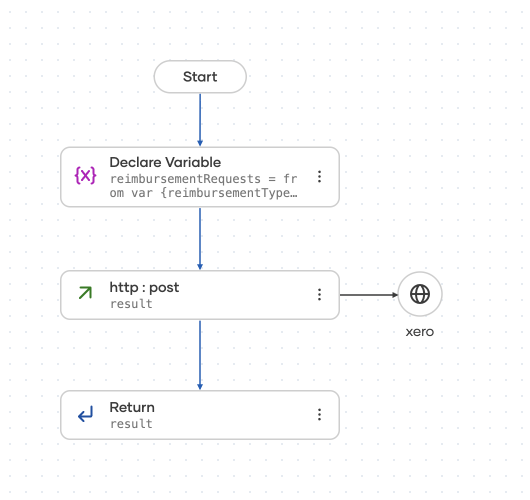
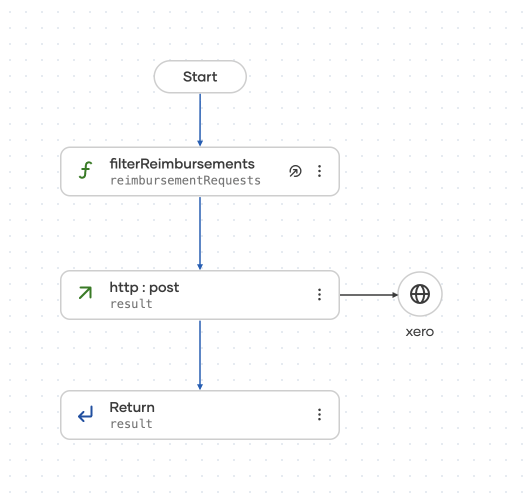
Improve/proof read the content

Changed region(s): [[0.1208, 0.3, 0.634, 0.42], [0.1208, 0.33, 0.1811, 0.36], [0.5434, 0.33, 0.5736, 0.36]]

diff --git a/en/docs/guides/patterns/message-translator.md b/en/docs/guides/patterns/message-translator.md
@@ -25,16 +25,20 @@ This example accepts sales opportunity data from a CRM-style analytics endpoint 
 
 1. Create an [HTTP service](../../develop/integration-artifacts/service/http.md#creating-an-http-service) with a `post` resource that accepts the `SalesData` payload.
 2. Add an HTTP client connection for the QuickBooks API. See [adding a connection](../../develop/integration-artifacts/supporting/connections.md#adding-a-connection).
-3. Add a data mapper that maps `SalesData` to `QuickBooksInvoice`, converting each opportunity into an invoice entry.
+3. [Add a data mapper](../../develop/integration-artifacts/supporting/data-mapper/access-paths/reusable.md) that maps `SalesData` to `QuickBooksInvoice`, converting each opportunity into an invoice entry.
 4. Call the QuickBooks connection with the translated message.
 
 The flow calls the `translate` function to convert the sales data into the QuickBooks invoice format, then posts it:
 
 <PatternImage src="/img/eip-patterns/message_translator_flow.png" alt="Message Translator flow in the WSO2 Integrator visual designer" width={530} />
 
-The [type diagram](../../develop/understand-ide/editors/type-diagram-editor.md) makes the translation concrete — the source `SalesData` tree (with its `Customer` and `Opportunity` records) on the left, and the target `QuickBooksInvoice` tree on the right:
+The [Data Mapper](../../develop/integration-artifacts/supporting/data-mapper/data-mapper.md) gives this conversion a visual view, which comes in handy for message translations: the `SalesData` fields on the left link to the `QuickBooksInvoice` fields on the right, and an [array mapping](../../develop/integration-artifacts/supporting/data-mapper/array-mappings/array-mappings.md) turns each `Opportunity` into an `Invoice`:
 
-<PatternImage src="/img/eip-patterns/message_translator_types.png" alt="Message Translator type diagram in WSO2 Integrator" width={642} />
+<PatternImage src="/img/eip-patterns/message_translator_datamapper.png" alt="Message Translator data mapper in WSO2 Integrator" width={1006} />
+
+Once the arrays are linked, open the focused view on the array mapping to map the individual element fields — each `Opportunity`'s `id`, `amount`, and `closeDate` map to the `Invoice` item's `id`, `amount`, and `invoiceDate`:
+
+<PatternImage src="/img/eip-patterns/message_translator_datamapper_item.png" alt="Message Translator data mapper focused view mapping each array element field" width={1006} />
 
 </TabItem>
 <TabItem value="code" label="Ballerina Code">
@@ -74,17 +78,15 @@ type Invoice record {|
 final http:Client quickBooks = check new ("http://api.quickbooks.com.balmock.io");
 // docs-fold-end
 
-function translate(SalesData salesData) returns QuickBooksInvoice {
-    return {
-        customerId: salesData.customer.id,
-        invoices: from var oppotunity in salesData.opportunities
-            select {
-                id: oppotunity.id,
-                amount: oppotunity.amount,
-                invoiceDate: oppotunity.closeDate
-            }
-    };
-}
+function translate(SalesData salesData) returns QuickBooksInvoice => {
+    customerId: salesData.customer.id,
+    invoices: from var oppotunity in salesData.opportunities
+        select {
+            id: oppotunity.id,
+            amount: oppotunity.amount,
+            invoiceDate: oppotunity.closeDate
+        }
+};
 
 listener http:Listener httpListener = new (port = 8080);
 
@@ -98,10 +100,6 @@ service /api/v1/analytics on httpListener {
 
 </TabItem>
 </PatternImplementationTabs>
-
-:::tip Build it visually with the Data Mapper
-The `translate` function here is hand-written, but the same conversion can be built on a canvas with the visual [Data Mapper](../../develop/integration-artifacts/supporting/data-mapper/data-mapper.md): link the `SalesData` fields to `QuickBooksInvoice` fields, and use an [array mapping](../../develop/integration-artifacts/supporting/data-mapper/array-mappings/array-mappings.md) to turn each `Opportunity` into an `Invoice` — no conversion code required.
-:::
 
 ## Complete sample
 

diff --git a/en/docs/guides/patterns/content-filter.md b/en/docs/guides/patterns/content-filter.md
@@ -25,16 +25,16 @@ This example receives detailed reimbursement templates that include descriptive 
 
 1. Create an [HTTP service](../../develop/integration-artifacts/service/http.md#creating-an-http-service) with a `post` resource that accepts the `DetailedReimbursementTemplate[]` payload.
 2. Add an HTTP client connection for the Xero API. See [adding a connection](../../develop/integration-artifacts/supporting/connections.md#adding-a-connection).
-3. In the flow, add a query over the incoming templates with a `select` clause that keeps only `reimbursementTypeID` and `fixedAmount` — this is the content filter.
+3. Add a data mapper (`filterReimbursements`) that maps `DetailedReimbursementTemplate` to `ReimbursementTemplate`, keeping only `reimbursementTypeID` and `fixedAmount` — this is the content filter.
 4. Post the filtered list to the Xero pay template endpoint and return the result.
 
 The flow projects each reimbursement template down to the two fields the payroll API needs, then posts the reduced message:
 
 <PatternImage src="/img/eip-patterns/content_filter_flow.png" alt="Content Filter flow in the WSO2 Integrator visual designer" width={530} />
 
-The [type diagram](../../develop/understand-ide/editors/type-diagram-editor.md) shows what the filter removes: the incoming `DetailedReimbursementTemplate` carries three fields, while the `ReimbursementTemplate` sent onward keeps only `reimbursementTypeID` and `fixedAmount` — `reimbursementTypeName` is dropped:
+Because `filterReimbursements` is a datamapper function, WSO2 Integrator opens it in the visual [Data Mapper](../../develop/integration-artifacts/supporting/data-mapper/data-mapper.md). The input `DetailedReimbursementTemplate` carries three fields, but the output keeps only `reimbursementTypeID` and `fixedAmount` — `reimbursementTypeName` has no link, so it is dropped:
 
-<PatternImage src="/img/eip-patterns/content_filter_types.png" alt="Content Filter type diagram in WSO2 Integrator" width={619} />
+<PatternImage src="/img/eip-patterns/content_filter_datamapper.png" alt="Content Filter data mapper in WSO2 Integrator" width={1006} />
 
 </TabItem>
 <TabItem value="code" label="Ballerina Code">
@@ -65,14 +65,20 @@ type Reimbursement record {
 final http:Client xero = check new ("http://api.xero.com.balmock.io");
 // docs-fold-end
 
+function filterReimbursements(DetailedReimbursementTemplate[] templates) returns ReimbursementTemplate[] =>
+    from var templatesItem in templates
+    select {
+        reimbursementTypeID: templatesItem.reimbursementTypeID, 
+        fixedAmount: templatesItem.fixedAmount
+    };
+
 listener http:Listener httpListener = new (port = 8080);
 
 service /payroll on httpListener {
 
     resource function post employees/[string id]/paytemplate/reimbursements(DetailedReimbursementTemplate[] templates)
             returns Reimbursement|error {
-        ReimbursementTemplate[] reimbursementRequests = from var {reimbursementTypeID, fixedAmount} in templates
-            select {reimbursementTypeID, fixedAmount};
+        ReimbursementTemplate[] reimbursementRequests = filterReimbursements(templates);
         Reimbursement result = check xero->/payrollxro/employees/[id]/paytemplate/reimbursements.post(reimbursementRequests);
         return result;
     }
@@ -81,10 +87,6 @@ service /payroll on httpListener {
 
 </TabItem>
 </PatternImplementationTabs>
-
-:::tip Build it visually with the Data Mapper
-The `select` projection in step 3 is exactly what the [Data Mapper](../../develop/integration-artifacts/supporting/data-mapper/data-mapper.md) does visually: map `DetailedReimbursementTemplate` to `ReimbursementTemplate` and leave `reimbursementTypeName` unlinked — any field you do not connect is dropped from the output. Since the payload is a list, this is an [array mapping](../../develop/integration-artifacts/supporting/data-mapper/array-mappings/array-mappings.md).
-:::
 
 ## Complete sample
 

diff --git a/en/docs/guides/patterns/format-indicator.md b/en/docs/guides/patterns/format-indicator.md
@@ -37,6 +37,10 @@ The [type diagram](../../develop/understand-ide/editors/type-diagram-editor.md) 
 
 <PatternImage src="/img/eip-patterns/format_indicator_types.png" alt="Format Indicator type diagram in WSO2 Integrator" width={760} />
 
+The version-1 conversion is written as the datamapper function `toPatient`, so WSO2 Integrator opens it in the visual [Data Mapper](../../develop/integration-artifacts/supporting/data-mapper/data-mapper.md): `dob` and `diagnosis` map straight across, while `firstName` and `lastName` combine into `fullName` — a [many-to-one mapping](../../develop/integration-artifacts/supporting/data-mapper/mapping-capabilities.md#many-to-one-mapping):
+
+<PatternImage src="/img/eip-patterns/format_indicator_datamapper.png" alt="Format Indicator data mapper in WSO2 Integrator" width={1006} />
+
 </TabItem>
 <TabItem value="code" label="Ballerina Code">
 
@@ -68,17 +72,19 @@ type Patient record {|
 final http:Client patientClient = check new ("http://api.patients.com.balmock.io");
 // docs-fold-end
 
+function toPatient(PatientReqV1 req) returns Patient => {
+    dob: req.dob,
+    fullName: req.firstName + " " + req.lastName,
+    diagnosis: req.diagnosis
+};
+
 listener http:Listener httpListener = new (port = 8080);
 
 service /api/v1 on httpListener {
     resource function post data/patient(PatientReq patintReq) returns error? {
         Patient patient;
         if patintReq is PatientReqV1 {
-            patient = {
-                dob: patintReq.dob,
-                fullName: patintReq.firstName + " " + patintReq.lastName,
-                diagnosis: patintReq.diagnosis
-            };
+            patient = toPatient(patintReq);
         } else {
             patient = {
                 dob: patintReq.patient.dob,
@@ -97,10 +103,6 @@ service /api/v1 on httpListener {
 
 </TabItem>
 </PatternImplementationTabs>
-
-:::tip Build the conversion visually with the Data Mapper
-Mapping each version into `Patient` (step 4) can be done in the [Data Mapper](../../develop/integration-artifacts/supporting/data-mapper/data-mapper.md) instead of code: link `dob` and `diagnosis` straight across, and combine `firstName` and `lastName` into `fullName` with a [many-to-one mapping](../../develop/integration-artifacts/supporting/data-mapper/mapping-capabilities.md#many-to-one-mapping).
-:::
 
 ## Complete sample
 

diff --git a/en/docs/guides/patterns/message.md b/en/docs/guides/patterns/message.md
@@ -23,12 +23,17 @@ This example builds a message that carries the details of a customer satisfactio
 <PatternImplementationTabs>
 <TabItem value="ui" label="Visual Designer" default>
 
-1. Create an [automation](../../develop/integration-artifacts/automation.md#creating-an-automation) to run the flow.
-2. Add an HTTP client connection that points to the SurveyMonkey API. See [adding a connection](../../develop/integration-artifacts/supporting/connections.md#adding-a-connection).
-3. In the flow, declare a variable of type `SurveyUpdateRequest` and assign the survey details. This record is the message.
-4. Add the HTTP `put` action on the connection to transmit the message to the survey resource path.
+1. Define the message structure as a record type with the [Type editor](../../develop/understand-ide/editors/type-editor.md). Here, `SurveyUpdateRequest` names the fields the two applications agree on, with a type for each.
+2. Create an [automation](../../develop/integration-artifacts/automation.md#creating-an-automation) to run the flow.
+3. Add an HTTP client connection that points to the SurveyMonkey API. See [adding a connection](../../develop/integration-artifacts/supporting/connections.md#adding-a-connection).
+4. In the flow, declare a variable of type `SurveyUpdateRequest` and assign the survey details. This record instance is the message.
+5. Add the HTTP `put` action on the connection to transmit the message to the survey resource path.
 
-The flow sends the `SurveyUpdateRequest` message to the SurveyMonkey channel as a single PUT request:
+Defining the message is the heart of this pattern. The `SurveyUpdateRequest` record fixes the shape both applications rely on — `title`, `from_template_id`, `footer`, `folder_id`, and `theme_id` — each with its type:
+
+<PatternImage src="/img/eip-patterns/message_types.png" alt="SurveyUpdateRequest message type in the WSO2 Integrator type diagram" width={355} />
+
+With the message type defined, the flow assigns its values and sends it to the SurveyMonkey channel as a single PUT request:
 
 <PatternImage src="/img/eip-patterns/message_flow.png" alt="Message flow in the WSO2 Integrator visual designer" width={530} />
 

diff --git a/en/docs/guides/patterns/point-to-point-channel.md b/en/docs/guides/patterns/point-to-point-channel.md
@@ -23,6 +23,10 @@ This example sends a product creation message to the Zuora billing API over a de
 <PatternImplementationTabs>
 <TabItem value="ui" label="Visual Designer" default>
 
+The design view shows the channel: a single automation connected to one Zuora connection, so the message has exactly one sender and one receiver:
+
+<PatternImage src="/img/eip-patterns/point_to_point_channel_design.png" alt="Point-to-Point Channel integration design view in WSO2 Integrator" width={646} />
+
 1. Create an [automation](../../develop/integration-artifacts/automation.md#creating-an-automation) to run the flow.
 2. Add an HTTP client connection that points to the Zuora API — this connection is the point-to-point channel. See [adding a connection](../../develop/integration-artifacts/supporting/connections.md#adding-a-connection).
 3. In the flow, declare a variable holding the product details.

diff --git a/en/docs/guides/patterns/command-message.md b/en/docs/guides/patterns/command-message.md
@@ -28,6 +28,10 @@ This example receives a user group creation request and sends it as a command me
 3. In the flow, post the command message to the `usergroups.create` operation with the `x-www-form-urlencoded` media type.
 4. Return the `UserGroupCreationResponse` to the caller.
 
+The `UserGroupCreateRequest` record is the command message — its fields are the parameters of the procedure to invoke: the group's `name`, `description`, and `team_id`:
+
+<PatternImage src="/img/eip-patterns/command_message_types.png" alt="UserGroupCreateRequest command message type in WSO2 Integrator" width={285} />
+
 The flow forwards the command message to Slack's `usergroups.create` operation and returns the result:
 
 <PatternImage src="/img/eip-patterns/command_message_flow.png" alt="Command Message flow in the WSO2 Integrator visual designer" width={530} />
